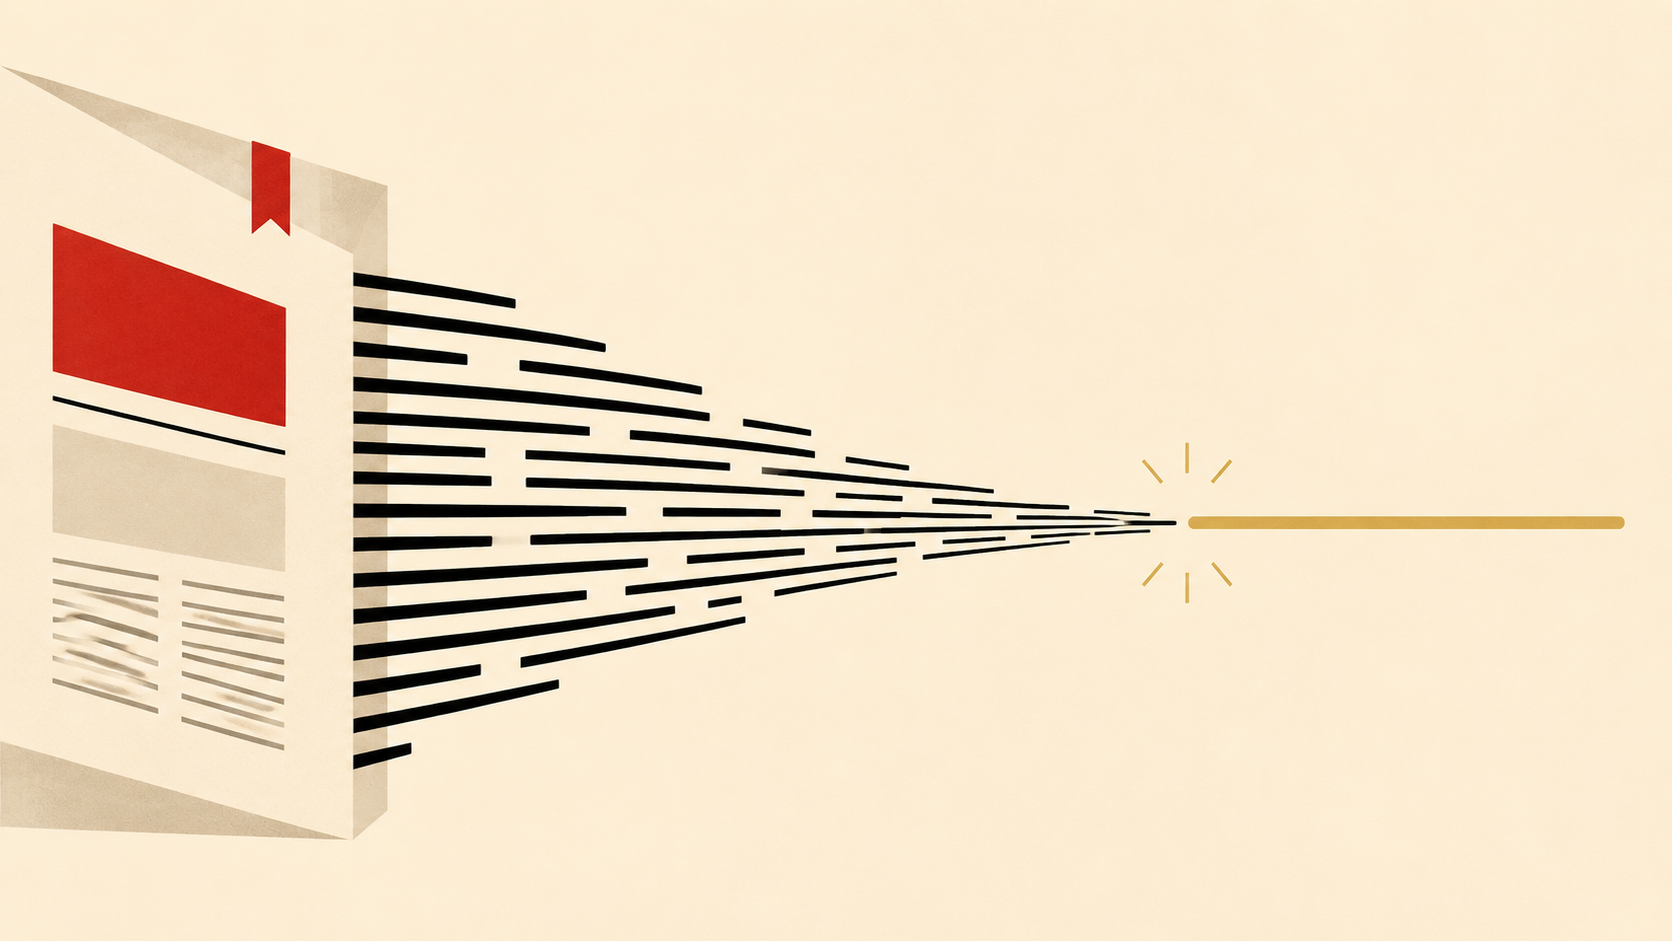
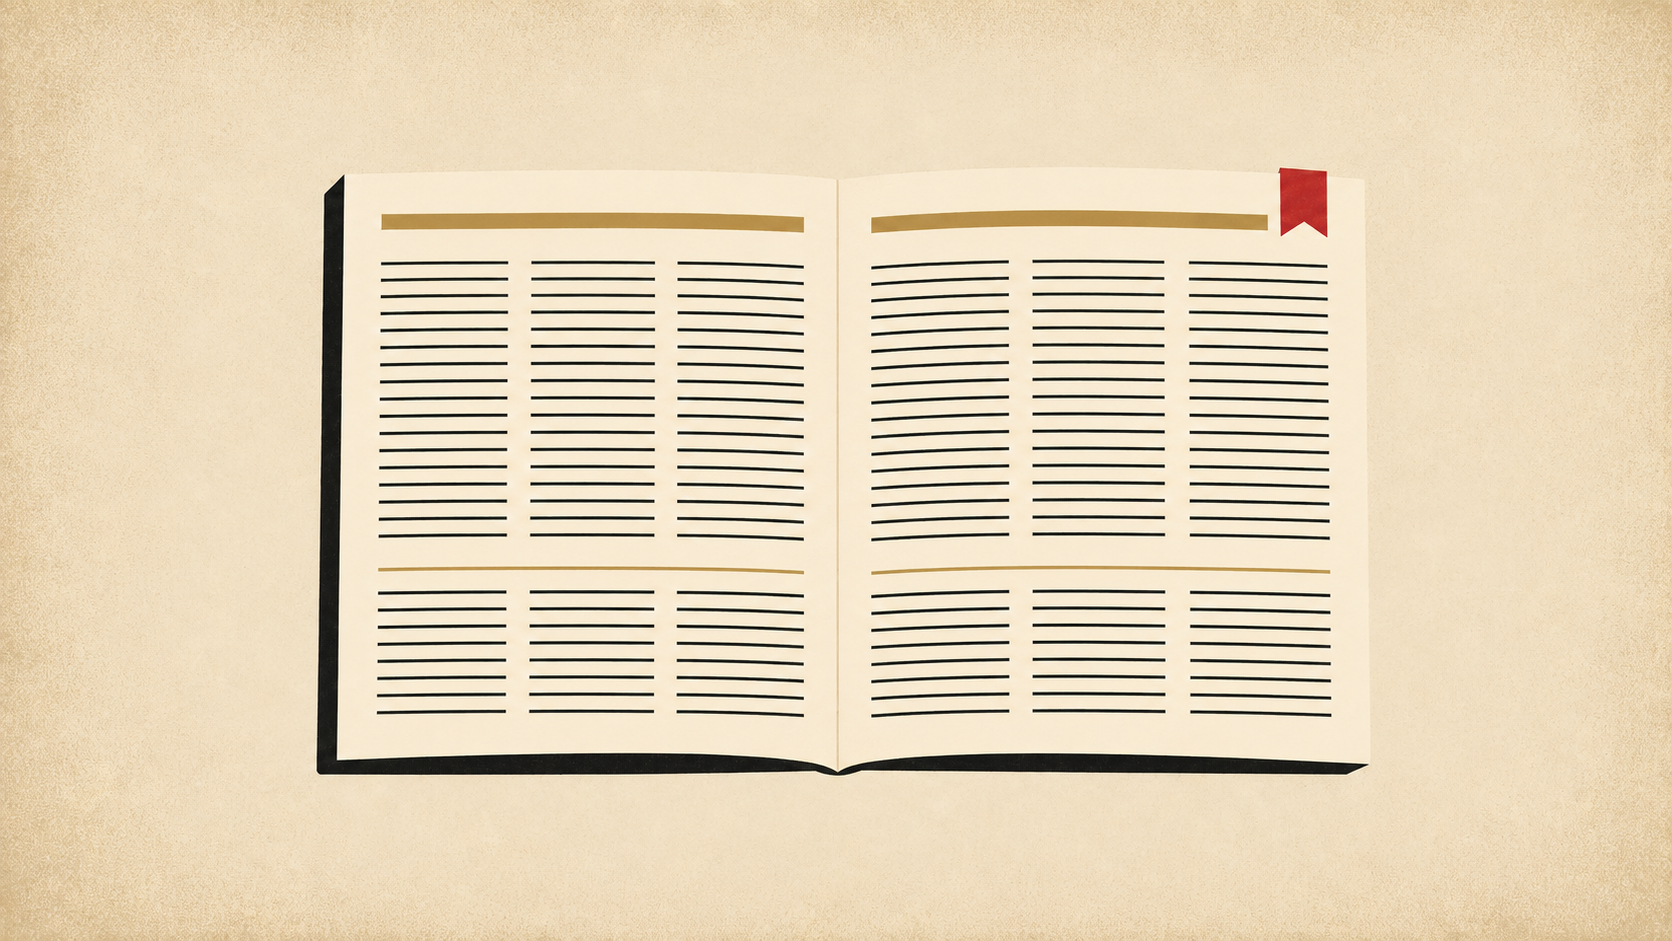
Wire live data pipeline + Comunidad EvidencIA WhatsApp
DATA_ENDPOINT points at the deployed Apps Script Web App
(AKfycbzDlLpras03Hal1rimBO-YTAW_fBtmgYTN6q3aS9X2dSQNTwOtX8Hu2__yipQAnFsGu).
Smoke test returned {ok:true} and the row landed in the
'newsletter' tab of the EvidencIA — data collection sheet, so
new subscribes stop opening a mailto: draft and start writing
straight to the sheet.

Card 03 rewritten from 'Comunidad IA.EDU / Fridays 10 am' to
'Comunidad EvidencIA' — the WhatsApp group of the network. The
button opens a pre-filled wa.me message to Gabriela's number
([phone redacted]) so anyone can request to join in one tap.
ES / EN / PT versions in the i18n dict.

The old flat inline SVGs on Newsletter (01) and Comunidad (03)
are replaced by proper ChatGPT-generated editorial illustrations
matching the Seminarios card:
  - card-newsletter.png — a folded gazette with red bookmark
    tab and gold masthead, warm cream vignette
  - card-comunidad.png — two overlapping chat bubbles (typing
    dots + WhatsApp green with a double check), warm cream

The lead paragraph in Evidencia goes back to text-align: left
plus text-wrap: pretty, since text-align: justify was stretching
word spacing and looking worse than the ragged edge it was
trying to fix.

diff --git a/index.html b/index.html
@@ -366,12 +366,9 @@
     color: var(--ink-soft);
     max-width: 62ch;
     margin-bottom: 32px;
-    text-align: justify;
-    text-align-last: left;
+    text-align: left;
+    text-wrap: pretty;
     hyphens: none;
-  }
-  @media (max-width: 720px) {
-    .ev-block-lead { text-align: left; }
   }
   .ev-block-lead em {
     font-style: normal;
@@ -1341,20 +1338,7 @@
 
       <div class="products">
         <div class="product">
-          <div class="p-img p-img--svg">
-            <svg viewBox="0 0 400 225" xmlns="http://www.w3.org/2000/svg" role="img" aria-label="Newsletter" preserveAspectRatio="xMidYMid meet">
-              <rect x="112" y="42" width="176" height="150" fill="#FFFFFF" stroke="#0F0E0C" stroke-width="3"/>
-              <rect x="128" y="28" width="42" height="18" fill="#B14629"/>
-              <line x1="128" y1="62" x2="272" y2="62" stroke="#B8842B" stroke-width="4" stroke-linecap="round"/>
-              <line x1="128" y1="82" x2="272" y2="82" stroke="#0F0E0C" stroke-width="2" opacity="0.55"/>
-              <line x1="128" y1="94" x2="272" y2="94" stroke="#0F0E0C" stroke-width="2" opacity="0.55"/>
-              <line x1="128" y1="106" x2="248" y2="106" stroke="#0F0E0C" stroke-width="2" opacity="0.55"/>
-              <line x1="128" y1="126" x2="272" y2="126" stroke="#0F0E0C" stroke-width="2" opacity="0.55"/>
-              <line x1="128" y1="138" x2="260" y2="138" stroke="#0F0E0C" stroke-width="2" opacity="0.55"/>
-              <line x1="128" y1="150" x2="235" y2="150" stroke="#0F0E0C" stroke-width="2" opacity="0.55"/>
-              <line x1="128" y1="170" x2="272" y2="170" stroke="#0F0E0C" stroke-width="2" opacity="0.55"/>
-            </svg>
-          </div>
+          <div class="p-img"><img src="img/card-newsletter.png" alt="" loading="lazy"></div>
           <div class="p-body">
             <div class="p-num">01</div>
             <h3 data-i18n="build.p1.h">Newsletter</h3>
@@ -1372,21 +1356,12 @@
           </div>
         </div>
         <div class="product">
-          <div class="p-img p-img--svg">
-            <svg viewBox="0 0 400 225" xmlns="http://www.w3.org/2000/svg" role="img" aria-label="Comunidad" preserveAspectRatio="xMidYMid meet">
-              <path d="M92 78 Q92 58 112 58 L208 58 Q228 58 228 78 L228 116 Q228 136 208 136 L146 136 L124 158 L131 136 Q92 136 92 116 Z" fill="#FFFFFF" stroke="#0F0E0C" stroke-width="2.8"/>
-              <circle cx="140" cy="97" r="4.5" fill="#0F0E0C"/>
-              <circle cx="160" cy="97" r="4.5" fill="#0F0E0C"/>
-              <circle cx="180" cy="97" r="4.5" fill="#0F0E0C"/>
-              <path d="M180 112 Q180 92 200 92 L296 92 Q316 92 316 112 L316 150 Q316 170 296 170 L232 170 L212 192 L219 170 Q180 170 180 150 Z" fill="#25D366" stroke="#0F0E0C" stroke-width="2.8"/>
-              <path d="M240 130 L260 145 L285 118" fill="none" stroke="#FAF7F0" stroke-width="3.5" stroke-linecap="round" stroke-linejoin="round"/>
-            </svg>
-          </div>
+          <div class="p-img"><img src="img/card-comunidad.png" alt="" loading="lazy"></div>
           <div class="p-body">
             <div class="p-num">03</div>
-            <h3 data-i18n="build.p3.h">Comunidad IA.EDU</h3>
-            <p data-i18n="build.p3.p">Docentes universitarios comparten experiencias reales del uso de IA en el aula. Comunidad de práctica de la <b>UPC</b> con <b>MetaredTIC Perú</b>. Reuniones en vivo los viernes 10 am. <a href="https://innovacioneducativa.upc.edu.pe/inteligencia-artificial-en-la-educacion/comunidadia/" target="_blank" rel="noopener">Bitácora de sesiones</a> · <a href="https://forms.office.com/r/6nCJ4wtVaS" target="_blank" rel="noopener">Registro MetaredTIC</a></p>
-            <div class="p-tag" data-i18n="build.p3.tag">Viernes 10 am</div>
+            <h3 data-i18n="build.p3.h">Comunidad EvidencIA</h3>
+            <p data-i18n="build.p3.p">Un grupo de WhatsApp donde investigadores, ministerios y practitioners de la región intercambian evidencia sobre IA y aprendizaje en vivo — sin filtros. <a href="https://wa.me/[phone redacted]?text=Hola%20Gabriela%2C%20quiero%20sumarme%20al%20grupo%20de%20WhatsApp%20de%20EvidencIA" target="_blank" rel="noopener">Escribile a Gabriela para sumarte al grupo →</a></p>
+            <div class="p-tag" data-i18n="build.p3.tag">WhatsApp</div>
           </div>
         </div>
       </div>
@@ -1816,7 +1791,7 @@
 // a pre-filled mailto: draft so nothing is ever lost.
 // ============================================================
 const CONTACT_EMAIL  = '[email redacted]';
-const DATA_ENDPOINT  = ''; // TODO: paste the /exec URL after deploying apps_script/datasheet.gs
+const DATA_ENDPOINT  = 'https://script.google.com/macros/s/AKfycbzDlLpras03Hal1rimBO-YTAW_fBtmgYTN6q3aS9X2dSQNTwOtX8Hu2__yipQAnFsGu/exec';
 
 // ============================================================
 // I18N — full content in ES / EN / PT
@@ -1867,9 +1842,9 @@ const I18N = {
     'build.p2.h': 'Seminarios',
     'build.p2.p': 'Conversaciones que valen la pena. Investigadores de Harvard, Stanford, UCLA. Equipos detrás de los RCTs en Ecuador, Nigeria, Ghana. Ministerios de Chile, Brasil, El Salvador, Uruguay.',
     'build.p2.tag': 'En vivo',
-    'build.p3.h': 'Comunidad IA.EDU',
-    'build.p3.p': 'Docentes universitarios comparten experiencias reales del uso de IA en el aula. Comunidad de práctica de la <b>UPC</b> con <b>MetaredTIC Perú</b>. Reuniones en vivo los viernes 10 am. <a href="https://innovacioneducativa.upc.edu.pe/inteligencia-artificial-en-la-educacion/comunidadia/" target="_blank" rel="noopener">Bitácora de sesiones</a> · <a href="https://forms.office.com/r/6nCJ4wtVaS" target="_blank" rel="noopener">Registro MetaredTIC</a>',
-    'build.p3.tag': 'Viernes 10 am',
+    'build.p3.h': 'Comunidad EvidencIA',
+    'build.p3.p': 'Un grupo de WhatsApp donde investigadores, ministerios y practitioners de la región intercambian evidencia sobre IA y aprendizaje en vivo — sin filtros. <a href="https://wa.me/[phone redacted]?text=Hola%20Gabriela%2C%20quiero%20sumarme%20al%20grupo%20de%20WhatsApp%20de%20EvidencIA" target="_blank" rel="noopener">Escribile a Gabriela para sumarte al grupo →</a>',
+    'build.p3.tag': 'WhatsApp',
 
     'sd.eyebrow': 'EvidencIA Smackdowns',
     'sd.title': 'Las preguntas que la conversación pública evita.',
@@ -2085,9 +2060,9 @@ const I18N = {
     'build.p2.h': 'Seminars',
     'build.p2.p': 'Conversations worth having. Researchers from Harvard, Stanford, UCLA. Teams behind the RCTs in Ecuador, Nigeria, Ghana. Ministries from Chile, Brazil, El Salvador, Uruguay.',
     'build.p2.tag': 'Live',
-    'build.p3.h': 'IA.EDU community',
-    'build.p3.p': 'University faculty share real experiences of AI use in the classroom. Community of practice hosted by <b>UPC</b> with <b>MetaredTIC Peru</b>. Live meetings every Friday at 10 am. <a href="https://innovacioneducativa.upc.edu.pe/inteligencia-artificial-en-la-educacion/comunidadia/" target="_blank" rel="noopener">Session logs</a> · <a href="https://forms.office.com/r/6nCJ4wtVaS" target="_blank" rel="noopener">Register (MetaredTIC)</a>',
-    'build.p3.tag': 'Fridays 10 am',
+    'build.p3.h': 'EvidencIA community',
+    'build.p3.p': 'A WhatsApp group where researchers, ministries, and practitioners from across the region trade evidence on AI and learning in real time — no filters. <a href="https://wa.me/[phone redacted]?text=Hi%20Gabriela%2C%20I%27d%20like%20to%20join%20the%20EvidencIA%20WhatsApp%20group" target="_blank" rel="noopener">Message Gabriela to join the group →</a>',
+    'build.p3.tag': 'WhatsApp',
 
     'sd.eyebrow': 'EvidencIA Smackdowns',
     'sd.title': 'The questions the public conversation avoids.',
@@ -2303,9 +2278,9 @@ const I18N = {
     'build.p2.h': 'Seminários',
     'build.p2.p': 'Conversas que valem a pena. Pesquisadores de Harvard, Stanford, UCLA. As equipes por trás dos RCTs no Equador, Nigéria, Gana. Ministérios do Chile, Brasil, El Salvador, Uruguai.',
     'build.p2.tag': 'Ao vivo',
-    'build.p3.h': 'Comunidade IA.EDU',
-    'build.p3.p': 'Docentes universitários compartilham experiências reais do uso de IA na sala de aula. Comunidade de prática da <b>UPC</b> com a <b>MetaredTIC Peru</b>. Reuniões ao vivo às sextas-feiras às 10h. <a href="https://innovacioneducativa.upc.edu.pe/inteligencia-artificial-en-la-educacion/comunidadia/" target="_blank" rel="noopener">Registro das sessões</a> · <a href="https://forms.office.com/r/6nCJ4wtVaS" target="_blank" rel="noopener">Cadastro MetaredTIC</a>',
-    'build.p3.tag': 'Sextas 10h',
+    'build.p3.h': 'Comunidade EvidencIA',
+    'build.p3.p': 'Um grupo de WhatsApp onde pesquisadores, ministérios e praticantes da região trocam evidência sobre IA e aprendizagem em tempo real — sem filtros. <a href="https://wa.me/[phone redacted]?text=Ol%C3%A1%20Gabriela%2C%20quero%20entrar%20no%20grupo%20de%20WhatsApp%20da%20EvidencIA" target="_blank" rel="noopener">Escreva à Gabriela para entrar no grupo →</a>',
+    'build.p3.tag': 'WhatsApp',
 
     'sd.eyebrow': 'EvidencIA Smackdowns',
     'sd.title': 'As perguntas que a conversa pública evita.',